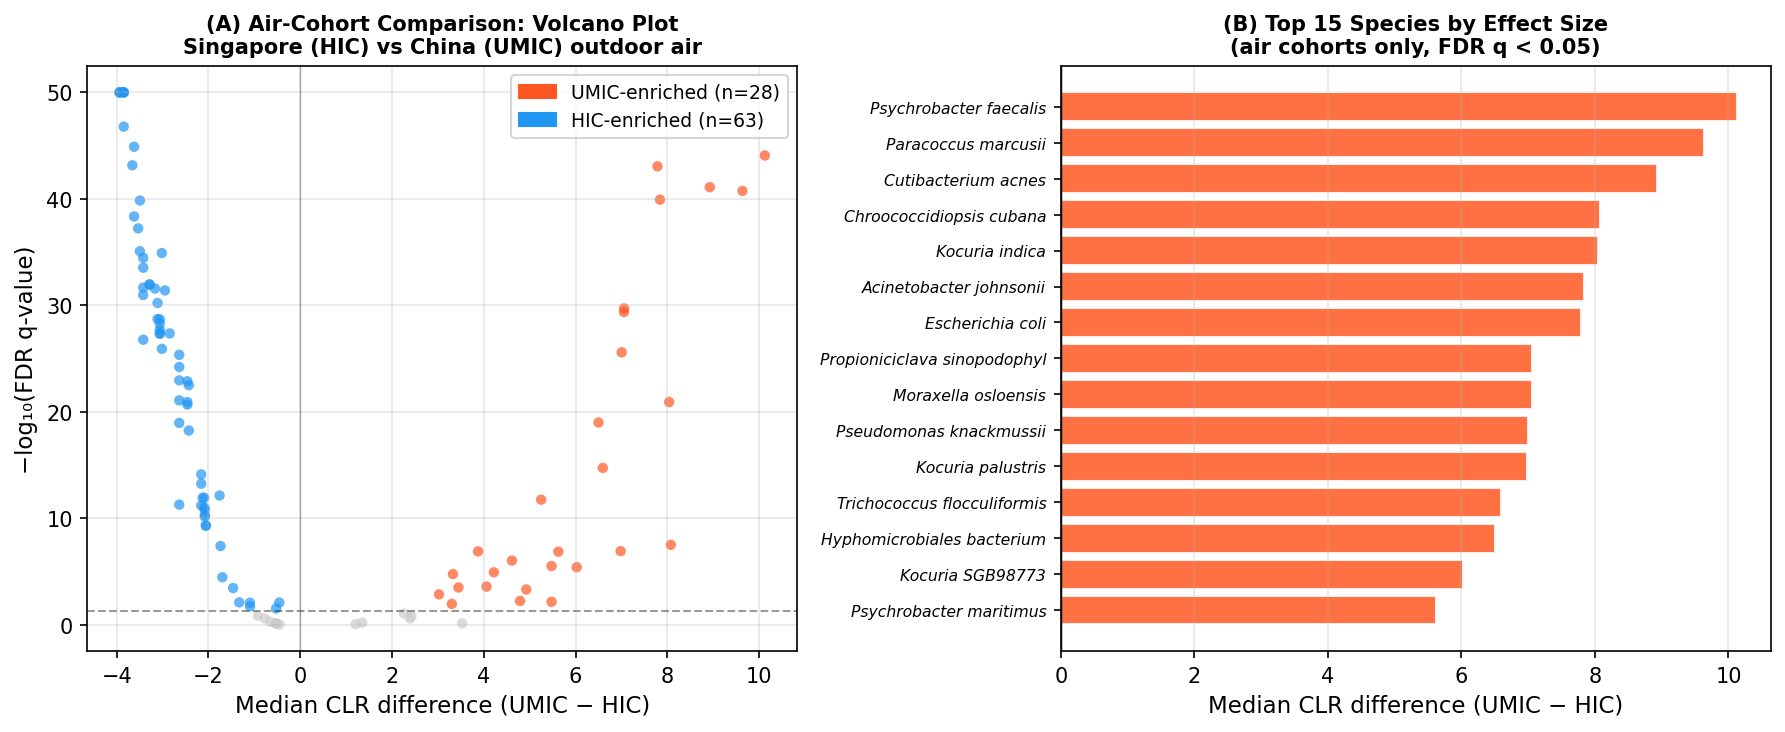
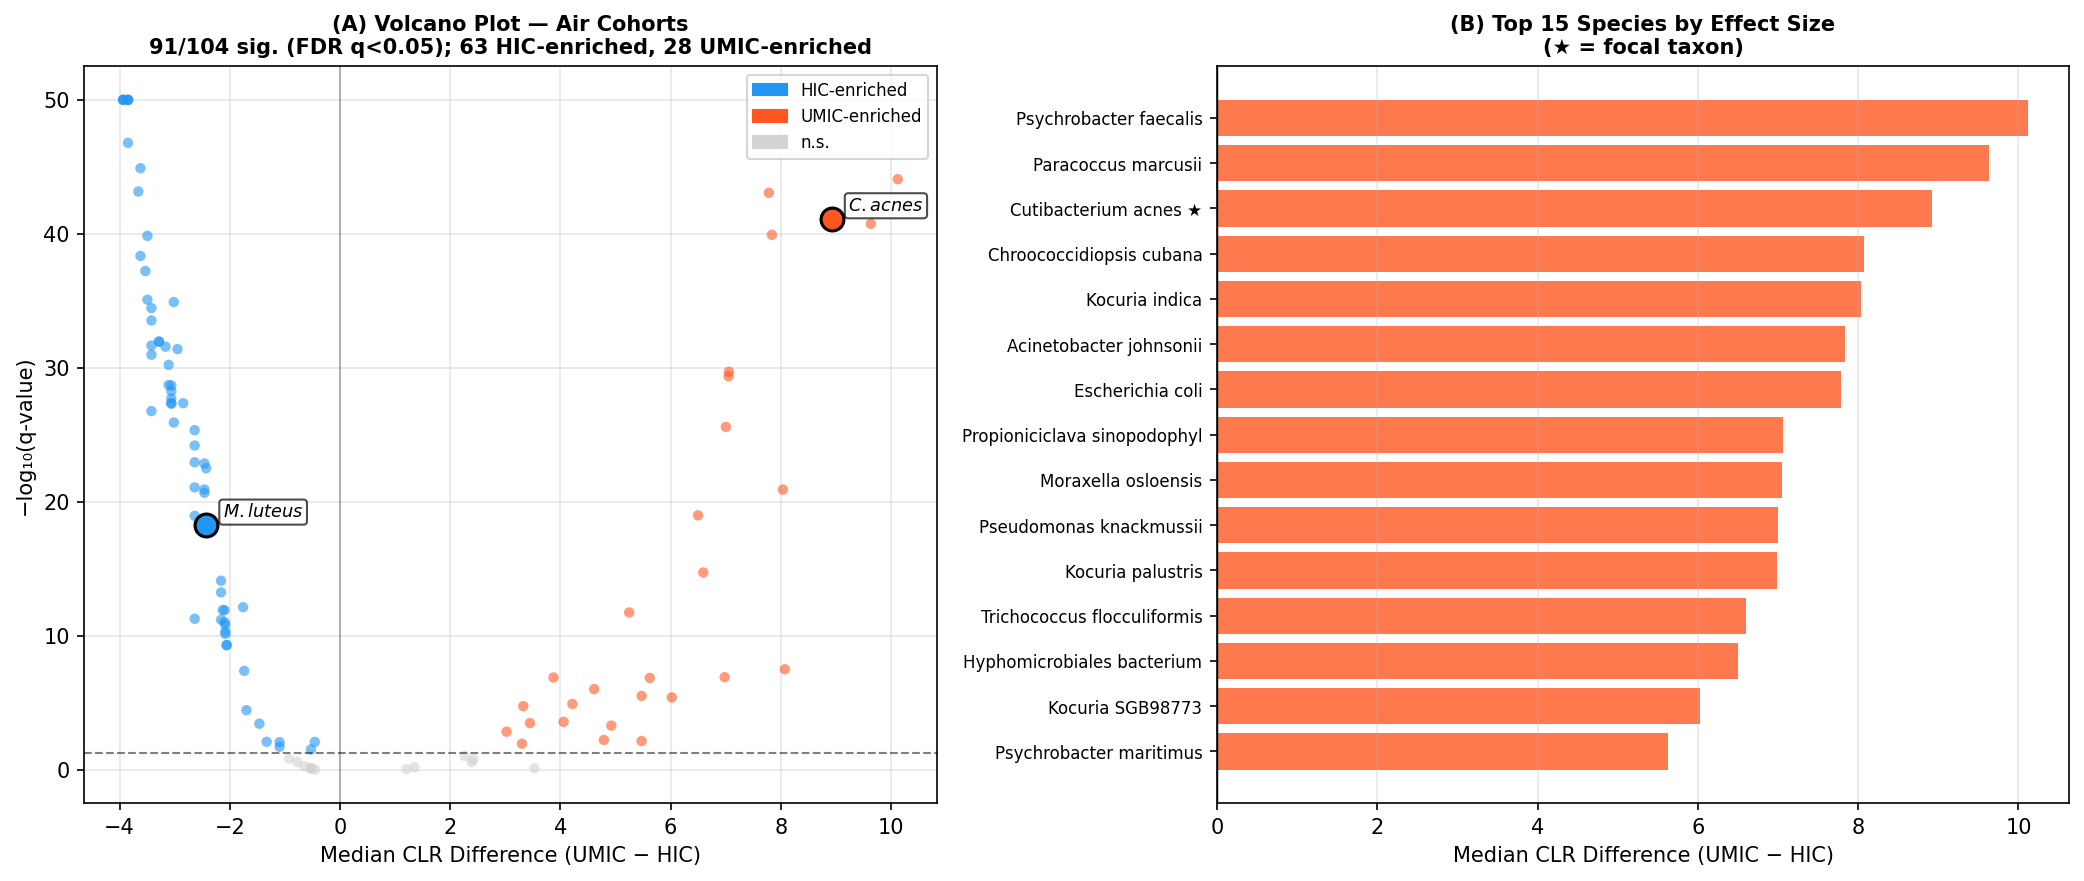
added graphs

diff --git a/summary_report.tex b/summary_report.tex
@@ -77,7 +77,7 @@ demonstrating that economic effects are real but substantially confounded by geo
 
 \textbf{Stage 3: Multi-cohort meta-analysis.}
 \textbf{Batch effects:} Strong study-level clustering (Kruskal-Wallis H=634, $p<10^{-100}$; Spearman $r_{\text{study}}=-0.53$). Ordinary least square residualization (per-species regression on study dummies; residuals retained as corrected values) reduced batch correlation to $r_{\text{study}}=0.09$.\\
-\textbf{Pooled analysis} (Centered log ratio $\sim$ Income + Study, all 6 cohorts): only 2/104 species survived FDR correction, as differences in sample material (air vs.\ sewage vs.\ dust vs.\ vehicle surfaces) drive stronger compositional shifts than economic group.\\
+\textbf{Pooled analysis} (Centered log ratio $\sim$ Income + Study, all 6 cohorts): only 8/104 species survived FDR correction, as differences in sample material (air vs.\ sewage vs.\ dust vs.\ vehicle surfaces) drive stronger compositional shifts than economic group.\\
 \textbf{Air-cohort comparison} (Gusareva Singapore vs.\ Qin China): as both studies sampled outdoor air but in different income-group countries, comparing them isolates the economic signal from the sample-type confound. Outcome: 91/104 species differentially abundant (FDR $q<0.05$; 63 HIC-enriched, 28 UMIC-enriched).\\
 \textbf{Alpha diversity (air cohorts):} UMIC Shannon $0.74\pm0.29$ vs.\ HIC $0.43\pm0.47$ ($p=6.8\times10^{-13}$); UMIC richness $39.8\pm22.6$ vs.\ HIC $2.2\pm2.8$ ($p=3.4\times10^{-56}$) — measured across 104 overlap species.\\
 
@@ -108,10 +108,10 @@ Matching by sample material (air cohorts) recovers 91 significant species, valid
 
 \textbf{Alignment with our findings:} 
 Both studies confirm that geography dominates urban microbiome variance over economic status, and that unadjusted cross-city comparisons are highly confounded. 
-Both identify globally prevalent taxa also detected in our data: \textit{Cutibacterium acnes} (HIC-enriched, $q=7.1\times10^{-14}$) and \textit{Micrococcus luteus} (HIC-enriched, $q=2.7\times10^{-3}$). 
+Both studies report globally prevalent taxa also detected in our air-cohort comparison: \textit{Micrococcus luteus} is HIC-enriched in our data ($q=5.7\times10^{-19}$), consistent with MetaSUB findings. \textit{Cutibacterium acnes} is UMIC-enriched in our air cohort ($q=8.0\times10^{-42}$), diverging from the MetaSUB pattern --- likely reflecting higher human-skin aerosol load in Chinese outdoor air.
 The MetaSUB also found higher AMR gene prevalence in lower-income cities, consistent with the higher microbial diversity observed in UMIC environments.\\
 \textbf{Analytical differences:}\\
 1. Resistome profiling: AMR gene quantification linked income to public-health outcomes, absent from our analysis.\\
-2. Standardised sampling: uniform surface swabs across cities eliminated material-type heterogeneity that limited our pooled result to 2 significant species.
+2. Standardised sampling: uniform surface swabs across cities eliminated material-type heterogeneity that limited our pooled result to 8 significant species.
 
 \end{document}
